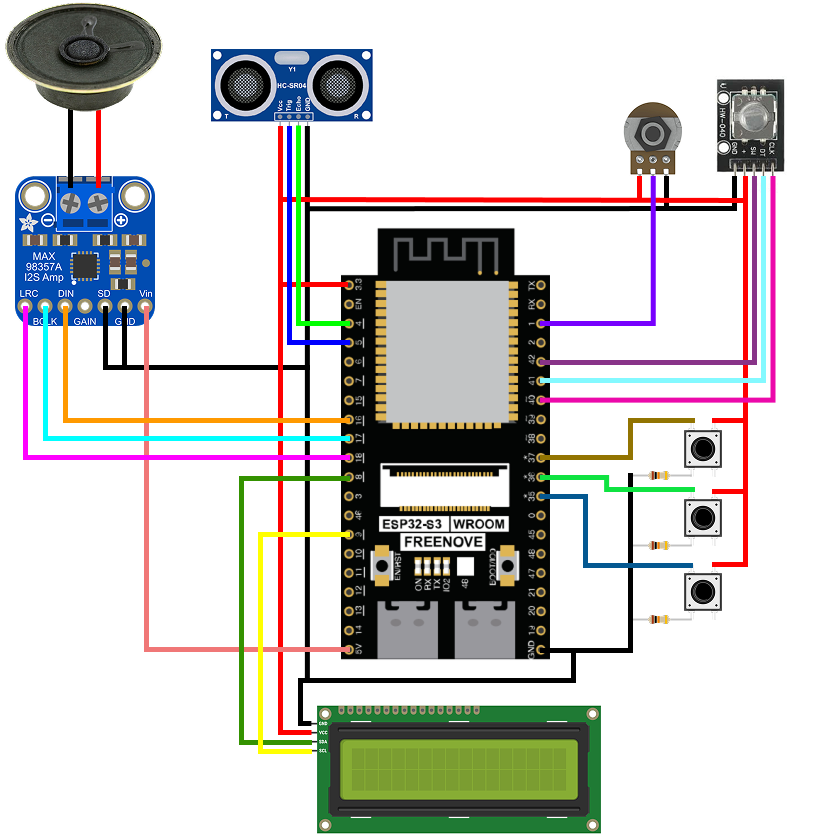
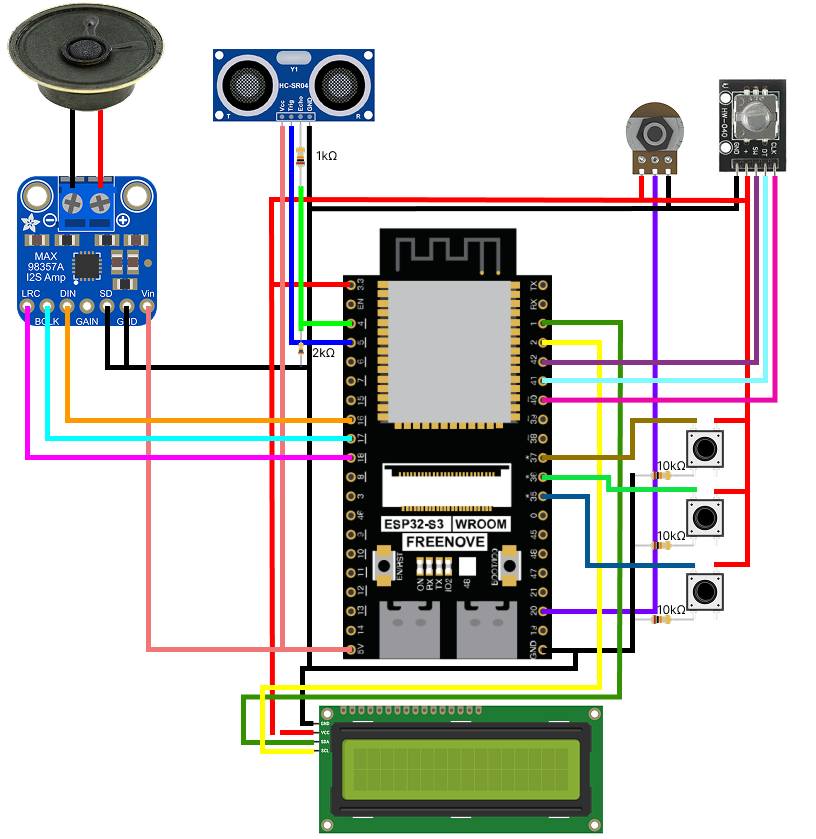
potentiometer, lcd display, and rotary encoder

diff --git a/src/main.cpp b/src/main.cpp
@@ -2,6 +2,7 @@
 #include <NewPing.h>
 #include <LiquidCrystal_I2C.h>
 #include <driver/i2s.h>
+#include <Wire.h>
 
 #include "audio_wave.h"
 #include "Tune.h"
@@ -11,7 +12,7 @@
  * Macros *
  **********/
 
-#define VERBOSE true
+#define VERBOSE 0
 
 // HC-SR04 ultrasonic sensor
 #define TRIGGER_PIN 5
@@ -29,16 +30,16 @@
 #define AUDIO_SAMPLE_RATE 44100  // Hz
 
 // Potentiometer
-#define POTENTIOMETER_PIN 1
+#define POTENTIOMETER_PIN 20
 
 // Rotary encoder
-#define ENCODER_CLK_PIN 40
-#define ENCODER_DT_PIN 41
-#define ENCODER_SW_PIN 42
+#define ROTARY_CLK_PIN 40
+#define ROTARY_DT_PIN 41
+#define ROTARY_SW_PIN 42
 
 // LCD display
-#define LCD_SDA_PIN 8
-#define LCD_SCL_PIN 9
+#define LCD_SDA_PIN 1
+#define LCD_SCL_PIN 2
 #define LCD_ADDRESS 0x27
 #define LCD_COLUMNS 16
 #define LCD_ROWS 2
@@ -66,6 +67,9 @@ void showCurrentWaveType();
 // HC-SR04 functions
 unsigned int distanceToMidiNote(unsigned int distance);
 
+// Rotary encoder functions
+void rotaryControl();
+
 
 /*********************
  * Global variables *
@@ -76,6 +80,15 @@ volatile float phase = 0.0f;
 volatile int16_t volume = 3000; // -32768 to 32,767 for 16-bit audio
 volatile WaveType currentWaveType = SINE; // Default wave type
 
+// flag to indicate if wave type has changed (for LCD update)
+bool isWaveTypeChanged = true; // initialize to true so that LCD shows wave type on startup
+
+// potentiometer
+int16_t pot;
+
+// rotary encoder
+int lastCLK;
+
 // Initialize instances
 NewPing sonar(TRIGGER_PIN, ECHO_PIN, MAX_DISTANCE);
 LiquidCrystal_I2C lcd(LCD_ADDRESS, LCD_COLUMNS, LCD_ROWS);
@@ -84,7 +97,8 @@ LiquidCrystal_I2C lcd(LCD_ADDRESS, LCD_COLUMNS, LCD_ROWS);
 
 void setup() {
   Serial.begin(115200);
-  if (VERBOSE) {
+
+  #if VERBOSE
     Serial.println("Starting Simple Synthesizer with");
     Serial.print("volume: ");
     Serial.print(volume);
@@ -101,43 +115,116 @@ void setup() {
         break;
     }
     Serial.println("Starting setup...");
-  }
+  #endif
 
   // Initialize LCD
+  Wire.begin(LCD_SDA_PIN, LCD_SCL_PIN);
   lcd.init();
   lcd.backlight();
-  if (VERBOSE) {
+  #if VERBOSE
     Serial.println("LCD initialized");
-  }
+  #endif
 
   // show welcome message and prepare
   showWelcomeMessage();
-  if (VERBOSE) {
+  #if VERBOSE
     Serial.println("Welcome message displayed");
-  }
+  #endif
+
+  // set pin mode for potentiometer
+  pinMode(POTENTIOMETER_PIN, INPUT);
+  #if VERBOSE
+    Serial.print("Potentiometer pin initialized");
+  #endif
+
+  // set pin mode for rotary encoder
+  pinMode(ROTARY_CLK_PIN, INPUT);
+  pinMode(ROTARY_DT_PIN, INPUT);
+  pinMode(ROTARY_SW_PIN, INPUT);
+  lastCLK = digitalRead(ROTARY_CLK_PIN);
+  #if VERBOSE
+    Serial.println("Rotary encoder pins initialized");
+  #endif
 
   // Initialize I2S for audio output
   i2sInit();
-  if (VERBOSE) {
+  #if VERBOSE
     Serial.println("I2S initialized");
-  }
+  #endif
 
   // Create audio task on core 0 (parallel to main loop)
   // xTaskCreatePinnedToCore(audioTask, "Audio Task", 4096, NULL, 2, NULL, 1);
-  if (VERBOSE) {
+  #if VERBOSE
     Serial.println("Audio task created");
-  }
+  #endif
 }
 
 void loop() {
-  // change frequency based on distance measured by HC-SR04   
-  if (VERBOSE) {
-     Serial.println("start loop...\n");
+  // i2c scan code
+  // byte error, address;
+  // int nDevices = 0;
+
+  // Serial.println("Scanning...");
+
+  // for(address = 1; address < 127; address++) {
+  //   Wire.beginTransmission(address);
+  //   error = Wire.endTransmission();
+
+  //   if(error == 0) {
+  //     Serial.print("I2C device found at 0x");
+  //     if(address < 16) Serial.print("0");
+  //     Serial.println(address, HEX);
+  //     nDevices++;
+  //   }
+  // }
+
+  // if(nDevices == 0)
+  //   Serial.println("No I2C devices found");
+
+  // delay(5000);
+ 
+  // display wave type selected if changed
+  // initially display once (default: SINE)
+  if (isWaveTypeChanged) {
+    #if VERBOSE
+      Serial.print("Wave type changed to: ");
+      switch (currentWaveType) {
+        case SINE:
+          Serial.println("SINE");
+          break;
+        case SQUARE:
+          Serial.println("SQUARE");
+          break;
+        case SAW:
+          Serial.println("SAW");
+          break;
+      }
+    #endif
+    showCurrentWaveType();
+    isWaveTypeChanged = false;
   }
-  if (VERBOSE) {
+
+  // set volume
+  #if VERBOSE
+    pot = analogRead(POTENTIOMETER_PIN);
+    Serial.print("current potentiometer: ");
+    Serial.print(pot);
+    volume = map(pot, 0, 4095, 0, 127) * 258;
+    Serial.print(", to volume: ");
+    Serial.println(volume);
+  #else
+    volume = map(analogRead(POTENTIOMETER_PIN), 0, 4095, 0, 127) * 258;
+  #endif
+
+  // set wave
+  rotaryControl();
+
+  // change frequency based on distance measured by HC-SR04  
+  #if VERBOSE
     unsigned int distance = sonar.ping_cm();
     unsigned int midiNote = distanceToMidiNote(distance);
     double frequency = noteFrequencies[midiNote];
+    
     Serial.print("Distance: ");
     Serial.print(distance);
     Serial.print(" cm, MIDI Note: ");
@@ -145,11 +232,14 @@ void loop() {
     Serial.print(", Frequency: ");
     Serial.print(frequency);
     Serial.println();
+    Serial.println();
     currentFrequency = frequency;
-  } else {
+  #else
     currentFrequency = noteFrequencies[distanceToMidiNote(sonar.ping_cm())];
-  }
-  delay(100); // small delay to avoid flooding serial output
+  #endif
+
+
+  // delay(100); // small delay to avoid flooding serial output
 }
 
 
@@ -265,4 +355,29 @@ unsigned int distanceToMidiNote(unsigned int distance) {
   if (distance > MAX_DISTANCE) distance = MAX_DISTANCE; // cap at max distance
   else if (distance < MIN_DISTANCE) distance = MIN_DISTANCE; // cap at min distance
   return map(distance, MIN_DISTANCE, MAX_DISTANCE, A0, C8); // A0 to C8 (piano range)
+}
+
+
+/****************************
+ * Rotary Encoder Functions *
+ ****************************/
+void rotaryControl() {
+  int clk = digitalRead(ROTARY_CLK_PIN);
+
+  if(clk != lastCLK) {
+    if(clk != digitalRead(ROTARY_DT_PIN)) {
+      #if VERBOSE
+        Serial.println("Encoder moved CW");
+      #endif
+      currentWaveType = (WaveType)((currentWaveType + 1) % 3); // modulo to avoid overflow
+    }
+    else {
+      #if VERBOSE
+        Serial.println("Encoder moved CCW");
+      #endif
+      currentWaveType = (WaveType)((currentWaveType + 2) % 3); // -1 equals to -1+n. addition to prevent negative.
+    }
+    isWaveTypeChanged = true;
+    lastCLK = clk;
+  }
 }

diff --git a/README.md b/README.md
@@ -19,6 +19,8 @@
 - 디스플레이
 - 가변저항
 - 로터리인코더
+- 1kΩ 저항 1개
+- 2kΩ 저항 1개
 - 10kΩ 저항 3개
 - 220Ω 저항 2개
 - 푸시버튼 3개
@@ -43,6 +45,73 @@ code .
 
 ## 3. 회로 구성
 <img src="./assets/img/circuit.png">
+
+### 3.1. 초음파센서 HC-SR04
+```
+HC-SR04 / ESP32 s3
+Vcc ----------- 5v
+Trig ------ GPIO 5
+Echo ------ GPIO 4
+GND ---------- GND
+```
+```
+# Echo 핀의 출력은 5v
+# 따라서 3.3v 에 가깝게 전압을 분배
+
+Echo --- 1kΩ --- GPIO 5
+          |
+         2kΩ
+          |
+         GND
+```
+
+### 3.2. 오디오앰프 MAX98357A
+```
+MAX98357A / ESP32 s3
+LRC -------- GPIO 18
+BCLK ------- GPIO 17
+DIN -------- GPIO 16
+GAIN x
+SD ------------- GND
+GND ------------ GND
+Vin ------------- 5v
+```
+```
+스피커 / MAX98357A
+(+) --------- (+)
+(-) --------- (-)
+```
+
+### 3.3. LCD
+```
+LCD / ESP32 s3
+GND ------ GND
+VCC ----- 3.3v
+SDA --- GPIO 1
+SCL --- GPIO 2
+```
+
+### 3.4. 가변저항
+```
+가변저항 / ESP32 s3
+(1) ---------- GND
+(2) ------ GPIO 20
+(3) --------- 3.3v
+```
+
+### 3.5. 로터리 인코더 HW-040
+```
+HW-040 / ESP32 s3
+CLK ----- GPIO 40
+DT ------ GPIO 41
+SW ------ GPIO 42
+(+) -------- 3.3v
+GND --------- GND
+```
+
+### 3.6. 녹음 및 재생 버튼, LED
+```
+```
 
 ## 4. 기능 및 사용 방법
 

diff --git a/draft.md b/draft.md
@@ -62,16 +62,20 @@ HC-SR04의 측정 범위가 2~400cm 정도이나, 권장 측정 범위는 5~200c
 
 
 ### 4.2. 음량 조절
-음을 만들어낼 때 16비트 정수로 샘플링하도록 하였다. 따라서 표현할 수 있는 범위가 16비트 정수의 표현 범위인 -32768~32767과 동일하다. 이 값을 샘플링하려는 파형에 곱하여 진폭, 즉 음량을 조절한다. 음수는 의미가 없기 때문에 0~32767 범위로 표현한다. 가변저항을 통해 이를 조절하게 될텐데, 가변저항을 통해 주는 입력은 아날로그 입력이다. ESP32-s3에서의 아날로그 해상도는 12비트이며, 이는 0~4095의 범위를 갖는다. 이 값을 0~32767의 범위로 재조정하여 (map함수 이용) 음량을 조절한다.
+음을 만들어낼 때 16비트 정수로 샘플링하도록 하였다. 따라서 표현할 수 있는 범위가 16비트 정수의 표현 범위인 -32768~32767과 동일하다. 이 값을 샘플링하려는 파형에 곱하여 진폭, 즉 음량을 조절한다. 음수는 의미가 없기 때문에 0~32767 범위로 표현한다. 가변저항을 통해 이를 조절하게 될텐데, 가변저항을 통해 주는 입력은 아날로그 입력이다. ESP32-s3에서의 아날로그 해상도는 12비트이며, 이는 0~4095의 범위를 갖는다. 이 값을 0~32767의 범위로 재조정하여 음량을 조절한다. 왼쪽에 그라운드, 오른쪽에 전원을 연결하여 왼쪽(시계반대방향)으로 가변저항을 돌리면 볼륨이 작아지게 설정하였다.
+
+#### 4.2.1. ADC 노이즈 문제
+0~4095 범위의 아날로그 입력은 가변저항을 건드리지 않아도 노이즈 때문에 값이 계속해서 흔들린다. 따라서 이 값을 그대로 0~32767 범위로 확장하면 노이즈가 더 크게 느껴질 수밖에 없다. 따라서 아날로그 입력값을 0~127의 범위로 양자화하여 (여기서 map함수 사용) 여기에 적당한 수(258 선택, 127*258 = 32766)를 곱해 0~32767 범위로 맞춰주는 방식을 택한다.
 
 
 ### 4.3. 음색 변경
-로터리 인코더를 통한 음색 변경 및 디스플레이에 표시
+로터리 인코더를 통해 음색을 변경하고 현재 음색 정보를 디스플레이에 표시한다. 로터리 인코더를 시계방향으로 돌리면 음색 인덱스가 증가하고, 반시계방향으로 돌리면 감소한다.
 
 #### 4.3.1. 음색
 1. 사인파
 2. 사각파
 3. 톱니파
+현재는 음색이 셋 뿐이지만, 파형을 코드로 만들어낼 수 있다면 얼마든지 음색을 추가할 수 있다.
 
 #### 4.3.2. 디스플레이 표시
 음색 번호 : 음색명
@@ -97,8 +101,10 @@ TBU
 ### 5.2. 코드 테스트
 - 초음파 센서 구성: VERBOSE 옵션으로 확인한 결과 잘 작동한다.
 - 오디오 앰프 구성: 남땜 이슈로 인하여 제대로 확인하지 못하였지만, 지직대는 소리가 나는 것은 확인하였고, 거리에 따라 음질이 조금씩 변하는 것을 알 수 있었다.
-
+- 가변저항: 아날로그 입력의 노이즈가 심해 그 수치를 그대로 쓸 수 없어서 양자화를 진행하였다.
+- 로터리 인코더: CLK 값과 DT 값을 비교할 때 loop() 함수 안에 delay가 100ms만 있어도 해당 delay 때문에 CLK 값이 항상 DT 값과 같게 측정된다. 딜레이를 없애니 잘 작동한다.
 
 
 ## 6. 확장가능성
-TBU
+1. 음색 추가 가능
+2. 음계 확장 가능 (미디 범위에서)